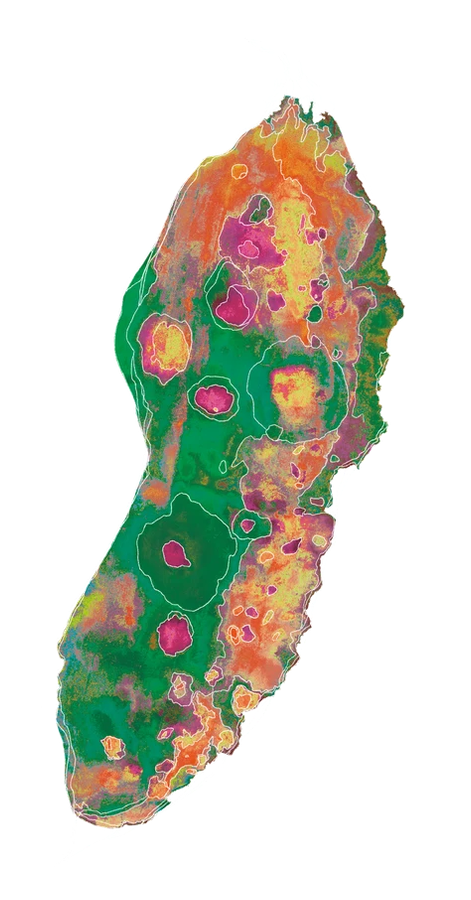
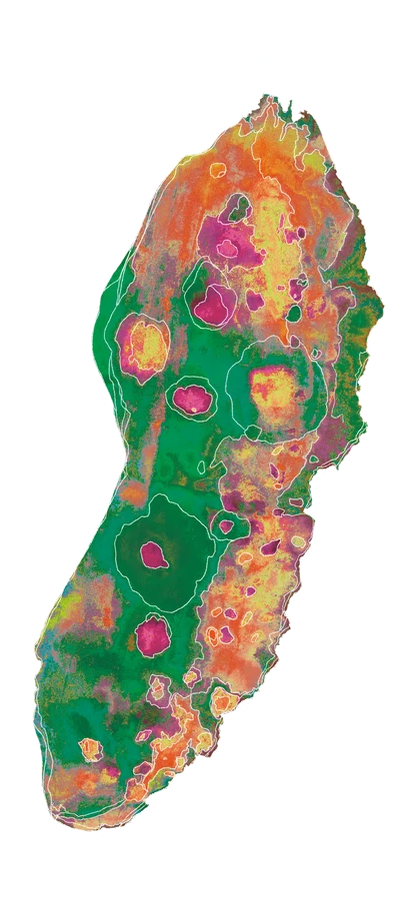
Trim faint transparent artwork margins

Changed region(s): [[0.0625, 0.0933, 0.9375, 0.9333]]

diff --git a/assets/fruit-linked.js b/assets/fruit-linked.js
@@ -20,7 +20,7 @@
   const english = document.createElement('span'); english.className = 'fruit-preview__english';
   const englishTitles = { ishizuka: 'Seminarium ishizukae', ota: 'Seminarium otae', kitazaki: 'Seminarium kitazakiae', goto: 'Seminarium gotoi', sawada: 'Seminarium sawadae', shirai: 'Seminarium shiraii', terayama: 'Seminarium terayamae', nakano: 'Seminarium nakanoi', furugen: 'Seminarium furukatae', in: 'Seminarium graduate' };
   // 一覧の画像幅に対する、透明余白を除いた実の長辺の比率。
-  const artworkRatios = { ishizuka: 865 / 850, ota: 856 / 640, kitazaki: 787 / 749, goto: 794 / 695, sawada: 867 / 900, shirai: 689 / 708, terayama: 860 / 900, nakano: 846 / 680, furugen: 873 / 798, in: 852 / 900 };
+  const artworkRatios = { ishizuka: 861 / 850, ota: 826 / 640, kitazaki: 558 / 749, goto: 699 / 695, sawada: 843 / 900, shirai: 686 / 708, terayama: 856 / 900, nakano: 841 / 680, furugen: 761 / 798, in: 848 / 900 };
   feature.className = 'fruit-preview__feature';
   description.className = 'fruit-preview__description';
   featureLabel.className = 'fruit-preview__feature-label'; featureLabel.textContent = '特徴';
@@ -36,7 +36,7 @@
   const intro = (slug) => document.querySelector(`.fruit-intro__fruit[data-fruit="${CSS.escape(slug)}"]`)?.closest('article');
   const show = (slug) => {
     const item = intro(slug); if (!item) return;
-    image.src = `assets/img/seminars/normalized/seminar-${slug}.webp?v=20261118b`;
+    image.src = `assets/img/seminars/normalized/seminar-${slug}.webp?v=20261118c`;
     const sizes = [...board.querySelectorAll('a')].filter(a => a.querySelector('img')).map(a => {
       const key = getSlug(a);
       return { slug: key, size: a.querySelector('img').offsetWidth * (artworkRatios[key] || 1) };

diff --git a/index.html b/index.html
@@ -1845,7 +1845,7 @@
 <script src="assets/script.js?v=202611081240" defer></script>
 <script src="assets/fruit-features.js?v=20261109" defer></script>
 <script src="assets/fruit-intro.js?v=20261111d" defer></script>
-<script src="assets/fruit-linked.js?v=20261118c" defer></script>
+<script src="assets/fruit-linked.js?v=20261118d" defer></script>
   <dialog class="motion-intro" id="motion-intro" aria-label="オープニング動画">
     <span class="motion-intro__focus" tabindex="-1" aria-label="オープニング動画"></span>
     <button class="motion-intro__close" type="button" aria-label="動画を閉じる">×</button>
